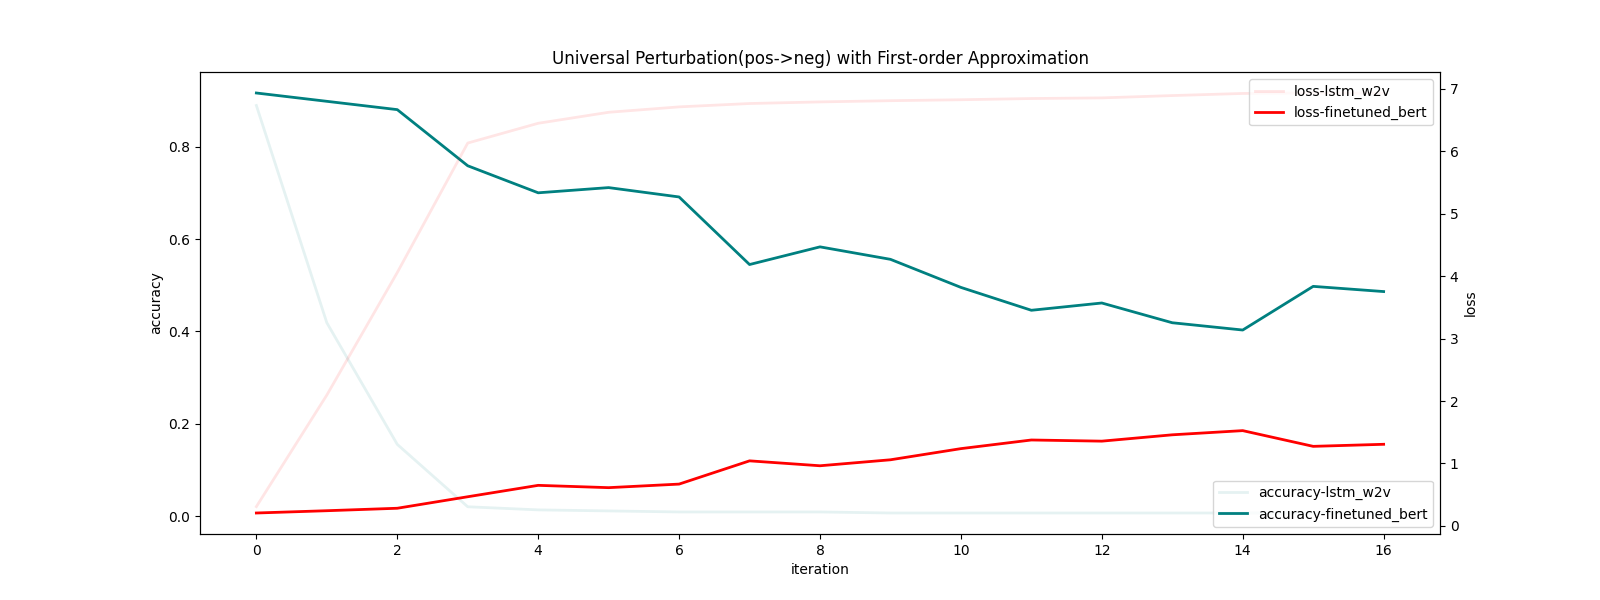
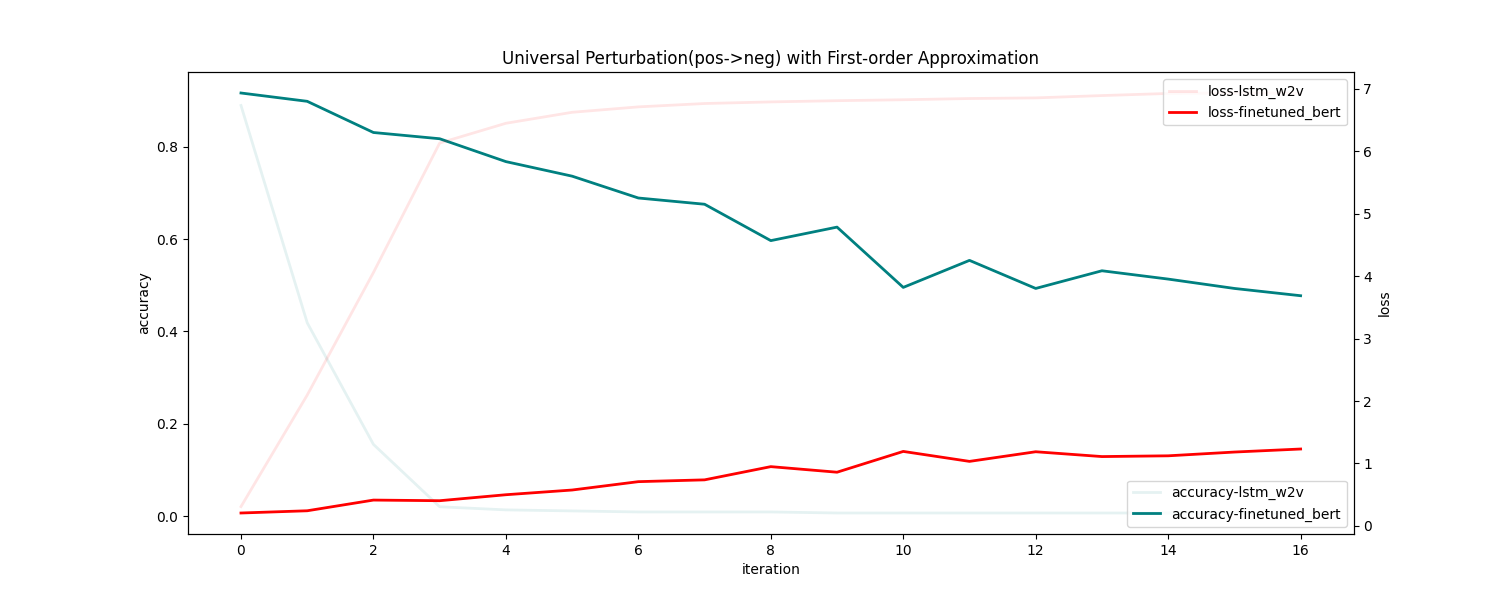
generate result graph for right prepended position after CLS

diff --git a/visualize_result.py b/visualize_result.py
@@ -4,7 +4,7 @@ import matplotlib.pyplot as plt
 import pandas
 
 MODELS_TO_CHOOSE = ['lstm_w2v', 'finetuned_bert']
-label = "0"
+label = "1"
 
 fig = plt.figure(figsize=(16, 6), dpi=100)
 # axe for accuracy
